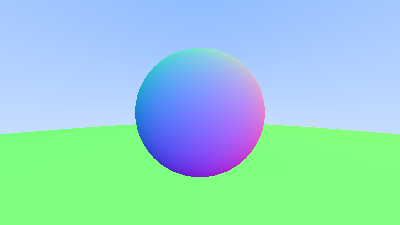
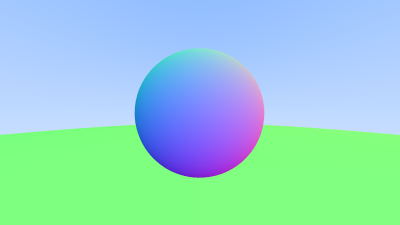
Antialiasing

diff --git a/src/main.rs b/src/main.rs
@@ -1,12 +1,15 @@
+mod camera;
 mod hit;
 mod ray;
 mod sphere;
 mod vec;
 
+use camera::Camera;
 use hit::{Hit, World};
+use rand::{thread_rng, Rng};
 use ray::Ray;
 use sphere::Sphere;
-use vec::{Color, Point3, Vec3};
+use vec::{Color, Point3};
 
 fn ray_color(r: &Ray, world: &World) -> Color {
     if let Some(rec) = world.hit(r, 0.0, f64::INFINITY) {
@@ -23,6 +26,7 @@ fn main() {
     const ASPECT_RATIO: f64 = 16.0 / 9.0;
     const IMAGE_WIGHT: u64 = 400;
     const IMAGE_HEIGHT: u64 = (IMAGE_WIGHT as f64 / ASPECT_RATIO) as u64;
+    const SAMPLES_PER_PIXEL: u64 = 100;
 
     // World
     let mut world = World::new();
@@ -30,30 +34,29 @@ fn main() {
     world.push(Box::new(Sphere::new(Point3::new(0.0, -100.5, -1.0), 100.0)));
 
     // Camera
-    let viewport_height = 2.0;
-    let viewport_width = ASPECT_RATIO * viewport_height;
-    let focal_lenght = 1.0;
-
-    let origin = Point3::new(0.0, 0.0, 0.0);
-    let horizontal = Vec3::new(viewport_width, 0.0, 0.0);
-    let vertical = Vec3::new(0.0, viewport_height, 0.0);
-    let lower_left_corner =
-        origin - horizontal / 2.0 - vertical / 2.0 - Vec3::new(0.0, 0.0, focal_lenght);
+    let cam = Camera::new();
 
     println!("P3");
     println!("{} {}", IMAGE_WIGHT, IMAGE_HEIGHT);
     println!("255");
 
+    let mut rng = thread_rng();
     for j in (0..IMAGE_HEIGHT).rev() {
         eprintln!("Scanlines remaining: {}", j);
 
         for i in 0..IMAGE_WIGHT {
-            let u = (i as f64) / ((IMAGE_WIGHT - 1) as f64);
-            let v = (j as f64) / ((IMAGE_HEIGHT - 1) as f64);
+            let mut pixel_color = Color::new(0.0, 0.0, 0.0);
+            for _ in 0..SAMPLES_PER_PIXEL {
+                let random_u: f64 = rng.gen();
+                let random_v: f64 = rng.gen();
 
-            let r = Ray::new(origin, lower_left_corner + u * horizontal + v * vertical);
-            let pixel_color = ray_color(&r, &world);
-            println!("{}", pixel_color.format_color());
+                let u = ((i as f64) + random_u) / ((IMAGE_WIGHT - 1) as f64);
+                let v = ((j as f64) + random_v) / ((IMAGE_HEIGHT - 1) as f64);
+
+                let r = cam.get_ray(u, v);
+                pixel_color += ray_color(&r, &world);
+            }
+            println!("{}", pixel_color.format_color(SAMPLES_PER_PIXEL));
         }
     }
     eprintln!("Done.")

diff --git a/src/camera.rs b/src/camera.rs
@@ -1,0 +1,38 @@
+use super::ray::Ray;
+use super::vec::{Point3, Vec3};
+
+pub struct Camera {
+    origin: Point3,
+    lower_left_corner: Point3,
+    horizontal: Vec3,
+    vertical: Vec3,
+}
+
+impl Camera {
+    pub fn new() -> Camera {
+        const ASPECT_RATIO: f64 = 16.0 / 9.0;
+        const VIEWPORT_HEIGHT: f64 = 2.0;
+        const VIEWPORT_WIDTH: f64 = ASPECT_RATIO * VIEWPORT_HEIGHT;
+        const FOCAL_LENGTH: f64 = 1.0;
+
+        let origin = Point3::new(0.0, 0.0, 0.0);
+        let horizontal = Vec3::new(VIEWPORT_WIDTH, 0.0, 0.0);
+        let vertical = Vec3::new(0.0, VIEWPORT_HEIGHT, 0.0);
+        let lower_left_corner =
+            origin - horizontal / 2.0 - vertical / 2.0 - Vec3::new(0.0, 0.0, FOCAL_LENGTH);
+
+        Camera {
+            origin,
+            horizontal,
+            vertical,
+            lower_left_corner,
+        }
+    }
+
+    pub fn get_ray(&self, u: f64, v: f64) -> Ray {
+        Ray::new(
+            self.origin,
+            self.lower_left_corner + u * self.horizontal + v * self.vertical,
+        )
+    }
+}

diff --git a/src/vec.rs b/src/vec.rs
@@ -50,13 +50,11 @@ impl Vec3 {
         self / self.length()
     }
 
-    pub fn format_color(self) -> String {
-        format!(
-            "{} {} {}",
-            (255.999 * self[0]) as u64,
-            (255.999 * self[1]) as u64,
-            (255.999 * self[2]) as u64,
-        )
+    pub fn format_color(self, samples_per_pixel: u64) -> String {
+        let ir = (256.0 * (self[0] / (samples_per_pixel as f64)).clamp(0.0, 0.999)) as u64;
+        let ig = (256.0 * (self[1] / (samples_per_pixel as f64)).clamp(0.0, 0.999)) as u64;
+        let ib = (256.0 * (self[2] / (samples_per_pixel as f64)).clamp(0.0, 0.999)) as u64;
+        format!("{} {} {}", ir, ig, ib)
     }
 }
 
